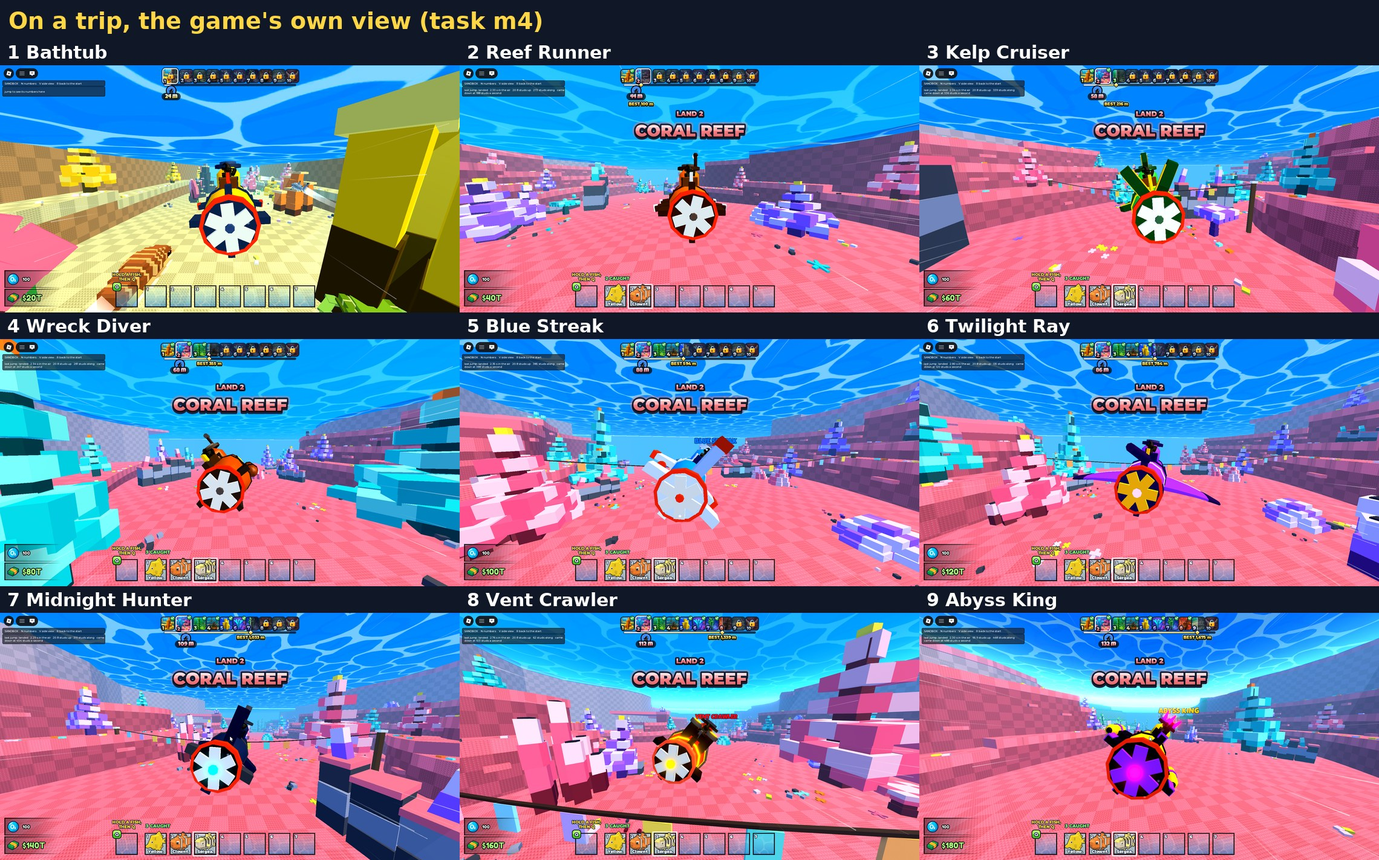
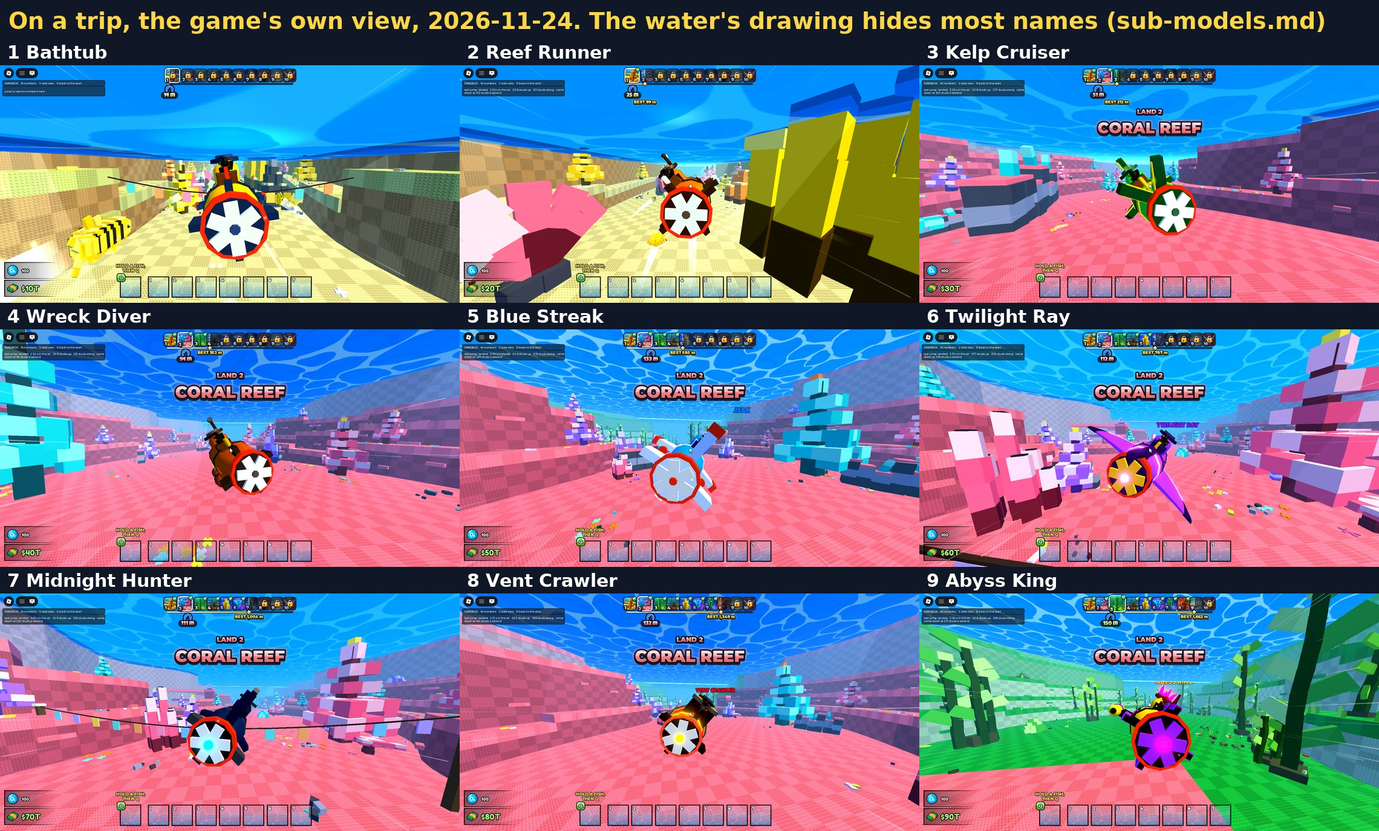
vault sync from void (Hugo's PC): 2026-11-24 00:46:19

diff --git a/tools/studio/m4_subs_shots.py b/tools/studio/m4_subs_shots.py
@@ -8,9 +8,11 @@ make sure nobody is playing in it.
     python tools/studio/m4_subs_shots.py closes [tier ...]  (each over the stand, with its sign)
     python tools/studio/m4_subs_shots.py shop <tag>         (the shop's cards, PC and phone: read-out and stills)
     python tools/studio/m4_subs_shots.py rides [tier ...]   (a real trip a tier, a still in the game's own view)
-    python tools/studio/m4_subs_shots.py probes [tier ...]  (the name sign on a trip, watched frame by frame)
-    python tools/studio/m4_subs_shots.py numbers [tier ...] (the same read-out with no still, when Studio is not redrawing)
-    python tools/studio/m4_subs_shots.py sheets             (the sheets in docs/attachments, from the stills)
+    python tools/studio/m4_subs_shots.py probes [tier ...] [sets=a,b]   (test stills of the name sign on a trip: as the
+                                                            game has it, always on top, with no far limit; or the sets
+                                                            given, words joined by +: top far quiet nowater nounder notitle)
+    python tools/studio/m4_subs_shots.py numbers [tier ...] [up=N]  (the read-out with no still; up=N: that SignUp, this client only)
+    python tools/studio/m4_subs_shots.py sheets [ride]      (the sheets in docs/attachments, from the stills)
     python tools/studio/m4_subs_shots.py remove             (in Edit, after the stop)
 It rides on s2_subs_check's server door and t3_toy_subs_check's client (the trip's numbers) and adds its own
 LocalScript. Studio's window may be hidden (it redraws about once a second then, or not at all): every still must
@@ -848,14 +850,33 @@ def window_crop(path, size, out, pad=14):
     return out
 
 
+def ride_sheets():
+    """the riding sheet (the game as it is) and, when its stills exist, the sheet of the tests on why the name is missing"""
+    labels = [f"{n} {NAMES[n - 1]}" for n in range(1, 10)]
+    made = [sheet([OUT / f"ride-{n}.png" for n in range(1, 10)], labels, ATTACH / "m4-subs-ride.jpg", width=760,
+                  title="On a trip, the game's own view, 2026-11-24. The water's drawing hides most names (sub-models.md)")]
+    tests = [("ride-2", "2, as the game is: no name"),
+             ("probe-quiet+top-ride-2", "2, TEST: the name set always on top"),
+             ("probe-quiet+nounder+notitle-ride-2", "2, TEST: the water's nine overhead sheets out, HUD off"),
+             ("probe-quiet+nowater+notitle-ride-2", "2, TEST: all the water's drawing out, HUD off"),
+             ("ride-5", "5, as the game is: only REAK shows (a cliff behind it)"),
+             ("probe-quiet+nowater+notitle-ride-5", "5, TEST: all the water's drawing out, HUD off")]
+    if all((OUT / f"{name}.png").exists() for name, _ in tests):
+        made.append(sheet([OUT / f"{name}.png" for name, _ in tests], [label for _, label in tests],
+                          ATTACH / "m4-subs-name-cause.jpg", cols=2, width=1000, crop=(0.2, 0.0, 0.8, 0.62),
+                          title="Why a sub's name is missing on a trip: tests in the game, 2026-11-24 (task m4)"))
+    return made
+
+
 def sheets(only=None):
-    """the record pictures in docs/attachments, from the stills in work/m4 (`sheets ride`: the riding sheet alone)"""
+    """the record pictures in docs/attachments, from the stills in work/m4 (`sheets ride`: the riding sheets alone)"""
     made = []
     labels = [f"{n} {NAMES[n - 1]}" for n in range(1, 10)]
     if only == "ride":
-        made.append(sheet([OUT / f"ride-{n}.png" for n in range(1, 10)], labels, ATTACH / "m4-subs-ride.jpg", width=760,
-                          title="On a trip, the game's own view (task m4)"))
-        print("\n".join(str(m) for m in made))
+        for p in ride_sheets():
+            im = Image.open(p)
+            im.resize((1500, round(im.height * 1500 / im.width)), Image.LANCZOS).save(OUT / (Path(p).stem + "-s.jpg"), quality=82)
+            print(p)
         return
     made.append(sheet([OUT / f"stand-{n}.png" for n in range(1, 10)], labels, ATTACH / "m4-subs-stand.jpg", width=760,
                       crop=(0.16, 0.0, 0.86, 1.0), title="The nine toy subs over the stand, in the game (task m4)"))
@@ -863,8 +884,7 @@ def sheets(only=None):
         # (stills of 2026-11-23 from the test camera that is gone: kept as the record of the rider on the seat)
         made.append(sheet([OUT / f"close-{n}.png" for n in range(1, 10)], labels, ATTACH / "m4-subs-seat.jpg", width=760,
                           title="On a trip, from a TEST camera (not the game's): the rider on the seat (task m4)"))
-    made.append(sheet([OUT / f"ride-{n}.png" for n in range(1, 10)], labels, ATTACH / "m4-subs-ride.jpg", width=760,
-                      title="On a trip, the game's own view (task m4)"))
+    made += ride_sheets()
     # the shop: the cards before the fix (two cuts kept from the first playtest, old code: work/m4/shop-old-pc-*.jpg,
     # the window at 94,41 in them) beside the same cards after it, then the list's end at PC size and on a phone
     tiles, names = [], []

diff --git a/docs/design/sub-models.md b/docs/design/sub-models.md
@@ -6,8 +6,9 @@ I approve you can do it for all of the stages."
 
 **State (2026-11-23, tasks t2 and t3): Hugo picked style A, the chunky toy. All nine tiers are built in it and are in
 the game on Hugo's PC. Task m4 (same day) saw them in the game for the first time, fixed the shop's cards and the
-name sign (tier 5's fin covered its name in the riding view: lifted, measured on a trip, not yet seen in a picture):
-"Seen in the game" below.** The voxel set (style D) built on 2026-11-22 was a fallback, taken before Hugo had named a
+name sign (tier 5's fin covered its name in the riding view: lifted 5.7 studs, measured on ten trips). On
+2026-11-24 it found why most names are missing on a trip: the water's own drawing is drawn over them. That is not
+fixed, it is Hugo's call: "Seen in the game" below.** The voxel set (style D) built on 2026-11-22 was a fallback, taken before Hugo had named a
 letter; it is kept in `art/subs/voxel/` and is no longer in the game. Nothing is uploaded (see "In the game").
 
 ![the nine toy subs](../attachments/subs-toy-all-stages.png)
@@ -65,17 +66,26 @@ are printed as `  !` lines and stop the build. All nine pass.
   `python tools/subs/sign_fit.py` works out, from the models' own points and the run camera, how high each model
   reaches where the sign is: 4.7 studs of lift leave Blue Streak 1 stud of room with the sub level. On a real trip
   the sub dips and banks, and the fin still reached 0.95 studs into the sign on 2% of the frames, so it has 1 more.
-  Measured on a trip with 5.7: nothing of the model in front of the name from the first second on (once 0.28 studs,
-  in the first second). That is one trip; the same code gave tier 6 nothing on one trip and 2.8 studs on another, so
-  it wants a second. The other eight are as they were. **Not seen in a picture yet** ("Seen in the game").
+  Measured on ten trips with 5.7 (2026-11-23 and 24): from the first second on, nothing of the model in front of
+  the name on any of them. In the first second, while the sub tips over to dive, the fin still crossed the sign on
+  five of the ten: 0.05, 0.28, 1.19, 1.53 and 2.14 studs up the 3-stud sign, on 1% of the frames at most (2 or 3
+  frames). For comparison, in the same playtest: at its old height (no lift) the fin covered over 0.25 studs of
+  the name on 54% of the frames, up to all 3 studs; with 4.7 it was 3 studs once in the first second and 0.2 studs
+  after it. The other eight are as they were. **Two side effects of the lift, both measured:** the name now sits
+  where the HUD's land title is (its letters over the name on 71 to 78% of the frames; 1% on the one trip at the old height), and
+  at the start of a dive it stands a stud above the water's surface while the camera is under it (about a tenth
+  of a trip's frames; never at the old height). Seen in a picture
+  only as a test, with the water's drawing and the HUD off (the last tile of the test sheet in "Seen in the game"):
+  the whole name, over the fin. In the game as it is, only "REAK" shows on the new riding still, for the reason
+  below.
 - **The sign keeps to the world's up, not the sub's, and that is wanted.** `StudsOffsetWorldSpace` is "relative to
   the global axes" (Roblox's reference), so while the sub dips and banks on a trip the name stays straight over the
   hull's middle and leans off the tower: 5 to 11 studs on most frames, up to 14. Tried the other way (the sign's
   place as an Attachment, turning with the sub): the tail then came in front of the name on up to 39% of a trip's
   frames (tier 9; 24% on tier 8, 16% on tier 2). This way it is 2% at most (tier 6's tail, below, and tier 5's fin
   before its lift). Put back.
-- **Twilight Ray's tail still crosses its name for a moment, and is left as it is.** On two of three trips its tail
-  (28 studs behind the sign) reached 2.8 and 3.0 studs up the 3-stud sign, on 2% of the frames: about 6 frames, a
+- **Twilight Ray's tail still crosses its name for a moment, and is left as it is.** On four of five trips its tail
+  (28 studs behind the sign) reached 2.5 to 3.0 studs up the 3-stud sign, on 1 to 2% of the frames: about 6 frames, a
   tenth of a second, in one bend. `sign_fit.py` passes tier 6 with 1.4 studs of room, so its check is a floor for the
   sub level, not a promise for a trip. Not lifted, because the review asked to keep the other eight as they are; a
   `SignUp` of about 3 in its row would do it.
@@ -163,9 +173,13 @@ pictures on the shop sheet are cuts kept from the first playtest, on the old cod
   or a fin touches the rider can't be told from them. The
   numbers of the t3 check were read again on the same trips, on the new map: the rider and the seat 0.00 studs off,
   the propeller 0.004 at most, the wake, the beam and the sign on, on every frame (`work/m4/rides-run2.txt`). These
-  trips ran before the sign was raised; nothing else differs. **So the riding sheet is the old sign: on tier 5 the
-  fin covers the middle of "BLUE STREAK" there.** It has to be taken again on the code as it is now, and could not
-  be: from about 21:40 Studio's window stopped redrawing (see "Pictures" below).
+  trips ran before the sign was raised; the close view is still from then.
+  **The riding sheet was taken again on 2026-11-24, on the code as it is now** (Studio restarted at 00:03, its window
+  redraws; Studio's Edit quality stood at Level04, the playtest's own quality on Automatic, as the Boss left it:
+  not the cause of the missing names, which were missing on the stills of 2026-11-23 too, before that setting). It
+  shows the game as it is: no name on tiers 1, 2, 3, 4 and 7, the whole name on tiers 6 and 8, "REAK" of "BLUE
+  STREAK" on tier 5 and the lower half of "ABYSS KING" on tier 9. Why: "The name on a trip" below. The old stills
+  are kept as `work/m4/ride-old-N.png`.
 - **The close view is a test camera, never the game's.** It stood to one side of the sub, only while the script's
   own trips ran. Hugo saw it in a playtest and said (2026-11-23): "what is this new camera perspective for the
   submarine? ... make sure it doesnt implement the camera on the side ever". It is in no file under `src/`, it is out
@@ -189,50 +203,61 @@ pictures on the shop sheet are cuts kept from the first playtest, on the old cod
     `python tools/subs/card_fit.py` reads the models' own points from `art/subs/<Id>/<Id>.glb`; `--write` puts the rows
     into `SubPanel.luau`, `--check` fails if they are stale or a model is cut. **Run it after a sub is rebuilt.** A
     place without the meshes (the placeholder) is framed in the game by its boxes (`shotBy`): written, not seen.
-- **The name on a trip, measured (one trip a tier on the code as it is now, 60 frames a second;
-  `work/m4/numbers-final.txt`).** `python tools/studio/m4_subs_shots.py numbers` watches the sign on every frame
-  of the run, where the engine draws it:
-  - **Ruled out** as the reason the name was missing on the stills of tiers 1 to 4, 6 and 7: the sign is on, on
-    every frame; it is 24 to 48 studs from the camera (its limit is 140); its place is on the screen on every frame;
-    no part stands between the camera and it (but an unseen `SeaTile` on tier 5, see-through); the camera sits
-    where the sum has it (0, 7, 38 studs from the sub's middle in the sub's own frame).
-  - **The model in front of the name:** nothing on tiers 1 to 5 and 8 and 9 from the first second on. Tier 6 (Twilight
-    Ray): its tail crosses the sign on 2% of the frames (about 6 frames, one bend). Tier 7: 0.15 studs at most.
-  - **Measured, and not yet a finding: the HUD's land title and the name share a place on the screen.** The big
-    "CORAL REEF", "KELP FOREST", "SHIPWRECKS", "OPEN BLUE" at the top middle is drawn over every sign in the world.
-    The title's label box lay over the name's middle or its ends on 27% of the frames on tier 2, 72% on tier 3, 70%
-    on tier 4, 81% on tier 5, 16% on tier 7 and 4% or less on tiers 1, 6, 8 and 9. That is the label's box, not its
-    letters, and a title counts until it is nine tenths faded, so it says how often they can meet, not how often
-    the name is hidden. Tier 5's 81% is with its sign lifted; whether the lift made it worse was not measured.
+- **The name on a trip: the water's drawing hides it (found 2026-11-24, tested in the game).**
 
-    | Tier | Studs a second | The model up the sign, most (studs) | Frames with over 0.25 covered | The sign off the tower, middle / most (studs) | A title's box over the name |
-    |---|---|---|---|---|---|
-    | 1 | 454 | 0.00 | 0% | 4.8 / 9.1 | 0% |
-    | 2 | 1,230 | 0.00 | 0% | 6.0 / 9.6 | 27% |
-    | 3 | 1,633 | 0.00 | 0% | 8.5 / 10.8 | 72% |
-    | 4 | 2,083 | 0.00 | 0% | 5.6 / 10.2 | 70% |
-    | 5 | 2,502 | 0.28 (0.00 from 1 s on) | 0% | 7.9 / 12.3 | 81% |
-    | 6 | 2,947 | 2.80 | 2% | 11.1 / 13.1 | 4% |
-    | 7 | 3,333 | 0.15 | 0% | 8.0 / 10.6 | 16% |
-    | 8 | 3,797 | 0.00 | 0% | 7.0 / 10.2 | 0% |
-    | 9 | 4,205 | 0.00 | 0% | 9.7 / 14.3 | 4% |
+  ![why the name is missing](../attachments/m4-subs-name-cause.jpg)
 
-  - **Why the name was missing on those stills: not found.** On the old still of tier 2 (`work/m4/ride-2.png`) the
-    title covers only the upper part of where the name should be, and the water under it is empty: there the name
-    was not drawn at all, so the title is not the reason. One guess is left, and only a picture can test it: the
-    sign is drawn a frame behind the sub, which moves 8 to 70 studs a frame. `m4_subs_shots.py probes` takes that
-    picture (a pink ball where the sign is meant, a green one where the engine has it, and the sign set
-    always-on-top and with no far limit); it needs Studio's window to redraw.
-  - **To do in the playtest that retakes the stills:** `numbers 5` again (and 6); tier 5 once at its old height, to
-    see whether the lift put its name under the titles; the title's letters (`TextBounds`) against the sign's box,
-    not the label's box; and for each riding still, whether a title lay over the name at that moment.
-- **Pictures: Studio's window stopped redrawing (2026-11-23, from about 21:40).** A bright part put in front of the
-  Edit camera never shows in the window's own picture, in Edit or in a playtest, while the game runs on and answers.
-  Moving the window on screen, giving it focus, fullscreen and back, and a new playtest did not wake it (the game ran
-  at 15 frames a second before those and at 60 after; which of them did that is not known). The engine's own screenshot can't be read back by a
-  script ("cannot currently create editable image from temporary texture id"). The script's gate catches it
-  (`FROZEN`), so no stale picture got onto a sheet. Hugo has to click into Studio or restart it; then `gate`,
-  `rides`, `probes 5 2` and `sheets` retake the riding sheet.
+  - **What hides it.** The sea is drawn by the map's own script (`tools/map/water_look.luau`, in the place as
+    `ClaudeBlockout.Surface.WaterLook`): four see-through layers at the surface and, seen from below, nine
+    see-through sheets overhead. The engine draws them over the name wherever they are behind it on the screen,
+    though the name is nearer the camera. A name shows only where land is behind it: on the new riding stills tier
+    6's and tier 8's names lie against a cliff and are whole, tier 5's shows "REAK" where the cliff is and nothing
+    where the water is, and tier 9's is cut along the cliff's top edge.
+  - **The tests** (tier 2 and tier 5, one trip each, same playtest, `m4_subs_shots.py probes 5 2 sets=...`):
+    as the game is, no name, while a ball (a solid part) put 3 studs over the name's place shows; the name set
+    always on top: the whole name shows; all the water's drawing taken out for the trip: the whole name shows, at
+    full strength; only the nine sheets overhead taken out: the name shows, washed out to a pale blue by the four
+    layers left. So it is the water's drawing and nothing else, the sheets most of all. **Why the engine draws
+    see-through parts over a nearer sign was not looked into**; the tests only show that it does.
+  - **Ruled out, by numbers on every frame of the nine trips:** the sign is on; it is 24 to 48 studs from the
+    camera (its limit is 140); its place is on the screen; the camera sits where the sum has it (0, 7, 38 studs from
+    the sub's middle in the sub's own frame). The earlier line "no part stands between the camera and it" was wrong
+    as a test: that check (`GetPartsObscuringTarget`) never listed the water's layers or sheets, which lay on the
+    same line whenever it listed the unseen `SeaTile` beside them. The guess that the sign is drawn a frame behind
+    the sub is dropped: the balls sit where the sum has the sign, and the name appears there once the water is out.
+  - **The model in front of the name:** nothing on tiers 1 to 4, 8 and 9. Tier 5: see Blue Streak's sign above.
+    Tier 6 (Twilight Ray): its tail crosses the sign on 1 to 2% of the frames, one bend (2.56 and 2.49 studs on the
+    two trips of 2026-11-24). Tier 7: 0.11 studs at most.
+  - **The HUD's land title lies over the name too, and that is a second thing.** The big "CORAL REEF", "KELP
+    FOREST" at the top middle is drawn over everything in the world. Its letters (not its box; counted while the
+    text is more than half there, and where they cover over a tenth of the name's box) lay over the name on the
+    share of frames below. With the water's drawing out of the way the name would still be under the title's
+    letters that often. The riding trips of 2026-11-24, one a tier (`work/m4/shots-2026-11-24.log`):
+
+    | Tier | The model up the sign, most (studs) | Frames with over 0.25 covered | The title's letters over the name | On the riding still |
+    |---|---|---|---|---|
+    | 1 | 0.00 | 0% | 1% | no name; water behind it |
+    | 2 | 0.00 | 0% | 26% | no name; water behind it |
+    | 3 | 0.00 | 0% | 70% | no name; water behind it, the title over it |
+    | 4 | 0.00 | 0% | 66% | no name; water behind it |
+    | 5 | 0.00 | 0% | 78% | "REAK": a cliff behind those letters |
+    | 6 | 2.56 | 1% | 4% | the whole name; a cliff behind it |
+    | 7 | 0.11 | 0% | 16% | no name; water behind it |
+    | 8 | 0.00 | 0% | 2% | the whole name; a cliff behind it |
+    | 9 | 0.00 | 0% | 4% | the lower half; cut along the cliff's top |
+
+    (The trips of 2026-11-23, 23:10, same code, one a tier: `work/m4/numbers-final.txt`.)
+  - **Not fixed, on purpose.** Two ways, each a call on the look and neither only this note's code: set the name
+    always on top (one line in `SubModels`; the name then also shows through the sub's own fin, through cliffs and
+    through other players' subs up to 140 studs off, and Blue Streak's lift could go), or change how the water is
+    drawn (the map's script). And the land title: leave it, or keep titles and names apart while riding a sub.
+    See "Open (the user)".
+- **Pictures: Studio's window stopped redrawing on 2026-11-23 from about 21:40; Studio was restarted at 00:03 on
+  2026-11-24 (by the Boss, at Hugo's word) and it redraws again.** While it was stuck, a bright part put in front of
+  the Edit camera never showed in the window's own picture, in Edit or in a playtest, while the game ran on and
+  answered. Moving the window on screen, giving it focus, fullscreen and back, and a new playtest did not wake it.
+  The engine's own screenshot can't be read back by a script ("cannot currently create editable image from temporary
+  texture id"). The script's gate catches it (`FROZEN`), so no stale picture got onto a sheet.
 - **Not checked:** a real phone; a trip by hand; the trip's pick-up, arrival and drop by eye; the stills are one
   moment of each trip, so a blade crossing the ring later in a trip would not show.
 
@@ -253,19 +278,22 @@ pictures on the shop sheet are cuts kept from the first playtest, on the old cod
   seen from the run's camera; `--check` fails if a name is covered or has less than a stud of room. **Run it after a
   sub is rebuilt or the run camera moves**, and give a tier that fails `SignUp` in `SubModels.List`.
 - `python tools/studio/m4_subs_shots.py install | gate | closes | shop <tag> | rides | probes | numbers | sheets |
-  remove` takes the stills and lays out the sheets (its top says how). `numbers` needs no picture: one trip a tier,
-  the sign, the model and the HUD read on every frame. It sends the player on trips and takes the camera: make sure
+  remove` takes the stills and lays out the sheets (its top says how). `rides` and `numbers` read the sign, the
+  model and the HUD on every frame of a trip (`numbers` takes no picture; `numbers 5 up=0` runs tier 5 with another
+  `SignUp`, on this client only). `probes 5 2 sets=plain,quiet+top,quiet+nowater+notitle` takes test stills: the
+  name always on top, the water's drawing out, the HUD off, each for one trip and put back after. `sheets ride`
+  lays out the riding sheet and the test sheet. It sends the player on trips and takes the camera: make sure
   nobody is playing in the playtest first.
 
 ## Open (the user)
 
 - Notes on single subs, from the sheet above.
 - A ride by hand on a few tiers: the rider on the seat, the propeller in its ring, the name over the tall pieces.
-- The riding sheet on the code as it is now, once Studio's window redraws; with it, why the name is missing on
-  some stills ("Seen in the game": not found), and whether the HUD's land title really hides the name on a trip
-  (its box and the name's share a place on the screen on most of a trip on tiers 2 to 5; letters not measured).
-  If it does: hide the land titles while riding a sub, hide the rider's own name, or leave it. The HUD is not this
-  note's code.
+- **The sub's name on a trip is hidden by the water's drawing** ("The name on a trip", with the test sheet). Pick:
+  set the name always on top (it then shows through fins, cliffs and other subs), change the water's drawing (the
+  map's script), or leave the name hidden under water.
+- The HUD's land title over the name's place on most of a trip on tiers 3, 4 and 5: leave it, or keep them apart
+  while riding a sub (the HUD is not this note's code).
 - Twilight Ray's tail crossing its name for a tenth of a second in a bend: leave it, or give tier 6 a `SignUp`.
 - Whether the studs go on in the game (with the creatures').
 - Uploading the nine models for a published game (permanent: on the user's word, from the PC that can).

diff --git a/docs/Handoff.md b/docs/Handoff.md
@@ -18,32 +18,34 @@ the 2 studs were not enough for Blue Streak in the riding view. Its tail fin sta
 camera, and covered the middle of its name on [the riding sheet](attachments/m4-subs-ride.jpg); the first report did not say so.
 Blue Streak's row now has `SignUp = 5.7` (extra studs for its sign); the other eight are as they were.
 `python tools/subs/sign_fit.py --check` works it out from the models and the run camera (4.7), and a measured trip added 1.
-On a trip with 5.7 nothing of the model stands in front of the name from the first second on (one trip; it wants a second).
-**Measured, not yet seen:** from about 21:40 Studio's window stopped redrawing, so the riding sheet still shows the old sign.
+On ten trips with 5.7 nothing of the model stands in front of the name from the first second on; in the first second the fin
+still crossed it on five of them (0.05 to 2.14 studs up the 3-stud sign, 1% of the frames at most). At its old height it covered
+the name on 54% of the frames. The lift has two side effects: the name now sits where the HUD's land title is (the title's
+letters over it on 71 to 78% of the frames; 1% on the one trip at the old height), and at the start of a dive it stands a stud above the surface.
 **Tier 6 is left as it is and still clips for a moment:** Twilight Ray's tail reached 2.8 studs up its 3-stud sign on 2% of a
-trip's frames (about a tenth of a second, one bend; two trips of three). `sign_fit.py` passes it with 1.4 studs of room: that
+trip's frames (about a tenth of a second, one bend; four trips of five). `sign_fit.py` passes it with 1.4 studs of room: that
 check is a floor for the sub level, not a promise for a trip. The review asked to keep the other eight; `SignUp` of about 3 in
 its row would do it.
 **State:** in the repo by the sync on Hugo's PC, nothing pushed by hand; in Hugo's place by Rojo (99 of 99 scripts the same as the
 repo). StyLua clean, selene 0 errors (the three old warnings), the Rojo build passes. Nothing saved, nothing uploaded.
-**The name on a trip, measured** (`python tools/studio/m4_subs_shots.py numbers`, one trip a tier, `work/m4/numbers-final.txt`):
-the sign is on, in range and on the screen on every frame and no part stands in front of it, so none of those is why it was missing
-on some stills. **The cause is not found.** Measured on the way: the HUD's land title ("CORAL REEF", "KELP FOREST" ...) has its
-label box over the name's place on 27 to 81% of a trip's frames on tiers 2 to 5 (the box, not the letters; tier 5's 81% is with
-its sign lifted). It is not the reason on the old stills: one shows empty water under the title where the name should be.
-`m4_subs_shots.py probes` takes the picture that tells, once Studio redraws. The sign keeps to the world's up while the
-sub dips and banks (it leans 5 to 11 studs off the tower): tried turning it with the sub, which put the tail in front of the name
-on up to 39% of the frames, and put it back.
-**Not done:** the riding sheet on the code as it is now (Studio's window), and with it: `numbers 5` and `6` again, tier 5 once
-at its old height (did the lift put its name under the titles?), the title's letters against the sign's box. Not played by hand;
-no real phone.
+**Why the name is missing on a trip (found 2026-11-24, after Studio was restarted at 00:03):** the water's own drawing
+(`tools/map/water_look.luau`, in the place as `Surface.WaterLook`: four see-through layers and, from below, nine sheets overhead)
+is drawn over the name wherever it is behind it on the screen, though the name is nearer. A name shows only where land is behind
+it. Tested on tiers 2 and 5 in the game ([the test sheet](attachments/m4-subs-name-cause.jpg)): set always on top the name shows;
+with the water's drawing out it shows whole; with only the nine sheets out it shows washed out. Why the engine does that was not
+looked into. **Not fixed: it is a look call for Hugo** (the name always on top, which then shows through fins, cliffs and other
+subs; or the water's drawing; or leave it). The [riding sheet](attachments/m4-subs-ride.jpg) was retaken on the code as it is:
+no name on tiers 1 to 4 and 7, whole on 6 and 8, part of it on 5 and 9. Separately, the HUD's land title has its letters over the
+name's place on 26% (tier 2) to 78% (tier 5) of a trip's frames. The earlier "no part stands in front of it" was a bad test: it
+never listed the water's layers. The sign keeps to the world's up while the sub dips and banks (it leans 5 to 11 studs off the
+tower): tried turning it with the sub, which put the tail in front of the name on up to 39% of the frames, and put it back.
+**Not done:** the fix for the hidden name (above); not played by hand; no real phone. Rojo was not connected after Studio's
+restart: the place was checked against the repo by hand (99 of 99 scripts the same).
 **The test camera:** the close views came from a camera at the sub's side that only the script used. Hugo saw it and does not
 want a side camera on the submarine, ever. It is in no `src/` file and out of the place; the script no longer has it.
 **To check again:** `python tools/subs/card_fit.py --check`, `python tools/subs/sign_fit.py --check`; in Studio
-`python tools/studio/m4_subs_shots.py install`, Play, `gate` (stops with FROZEN while the window is not redrawing), `closes`,
-`shop after`, `rides`, `probes 5 2`, `numbers`, stop, `remove`, then `sheets`.
-**On the partner's PC:** pull; with Rojo connected nothing else, else `python tools/studio/sync_src.py <studio_id>`. The toy
-meshes are local files on Hugo's PC only, so there the shop shows the placeholder subs.
+`python tools/studio/m4_subs_shots.py install`, Play, `gate` (stops with FROZEN if the window is not redrawing), `closes`,
+`shop after`, `rides`, `probes 5 2 sets=plain,quiet+top,quiet+nowater+notitle`, `numbers`, stop, `remove`, then `sheets`.
 
 ## 2026-11-23 · The fail's black is over the HUD, so nothing comes up bright on a black screen (NULLROOM worker m3, Hugo's PC)
 The bug: home from a fail, the Shop and Index buttons, the plus buttons and "GO TO YOUR TANK TO DEPOSIT" came up at full

diff --git a/docs/Sessions.md b/docs/Sessions.md
@@ -38,12 +38,13 @@ The links open the chat in the Claude app on the PC it runs on.
   Midnight Hunter's name is cyan, not navy on navy. **Pull before editing those two.** Later the same evening (the review):
   Blue Streak's row has `SignUp = 5.7`, because its tail fin covered its name in the riding view (`python tools/subs/sign_fit.py
   --check` after a sub is rebuilt or the run camera moves). Tier 6's tail still crosses its name for a tenth of a second in one
-  bend; left. **For whoever has the HUD, measured and not yet a finding: on a sub trip the land title's label box ("CORAL
-  REEF" ...) lies over the place of the sub's name on 27 to 81% of the frames on tiers 2 to 5** (the box, not the letters; the
-  table is in [sub models](design/sub-models.md), "Seen in the game"). Why the name is missing on some riding stills is still
-  not found. **Studio on Hugo's
-  PC: its window stopped redrawing about 21:40**, so stills come out as one old picture (`m4_subs_shots.py gate` says FROZEN);
-  it needs a click from Hugo or a restart. The riding sheet is still the old sign until then.
+  bend; left. **Found 2026-11-24: on a sub trip the water's own drawing
+  (`Surface.WaterLook`, from `tools/map/water_look.luau`) is drawn over the sub's name wherever water is behind it on the screen,**
+  so most names are missing while riding; a name shows only against land. Tested in the game, not fixed (Hugo's call: the name
+  always on top, or the water's drawing): [sub models](design/sub-models.md), "The name on a trip". **For whoever has the HUD:
+  the land title's letters ("CORAL REEF" ...) also lie over the place of the sub's name on 26 to 78% of a trip's frames on tiers 2
+  to 5.** For whoever has the map: other signs that are not always on top may vanish against the water the same way (not tested).
+  Studio on Hugo's PC was restarted at 00:03 on 2026-11-24 and its window redraws again; Rojo was not connected after it.
   **Hugo, 2026-11-23, on the submarine's camera: "make sure it doesnt implement the camera on the side ever"** (he saw my test camera
   in a playtest; it was never in `src/`). The boss reads this as a rule for every phase of the trip (`SubController.cameraFor`:
   the approach, the pick-up and the arrival stand to one side today); that change is not made, the boss hands it out.
